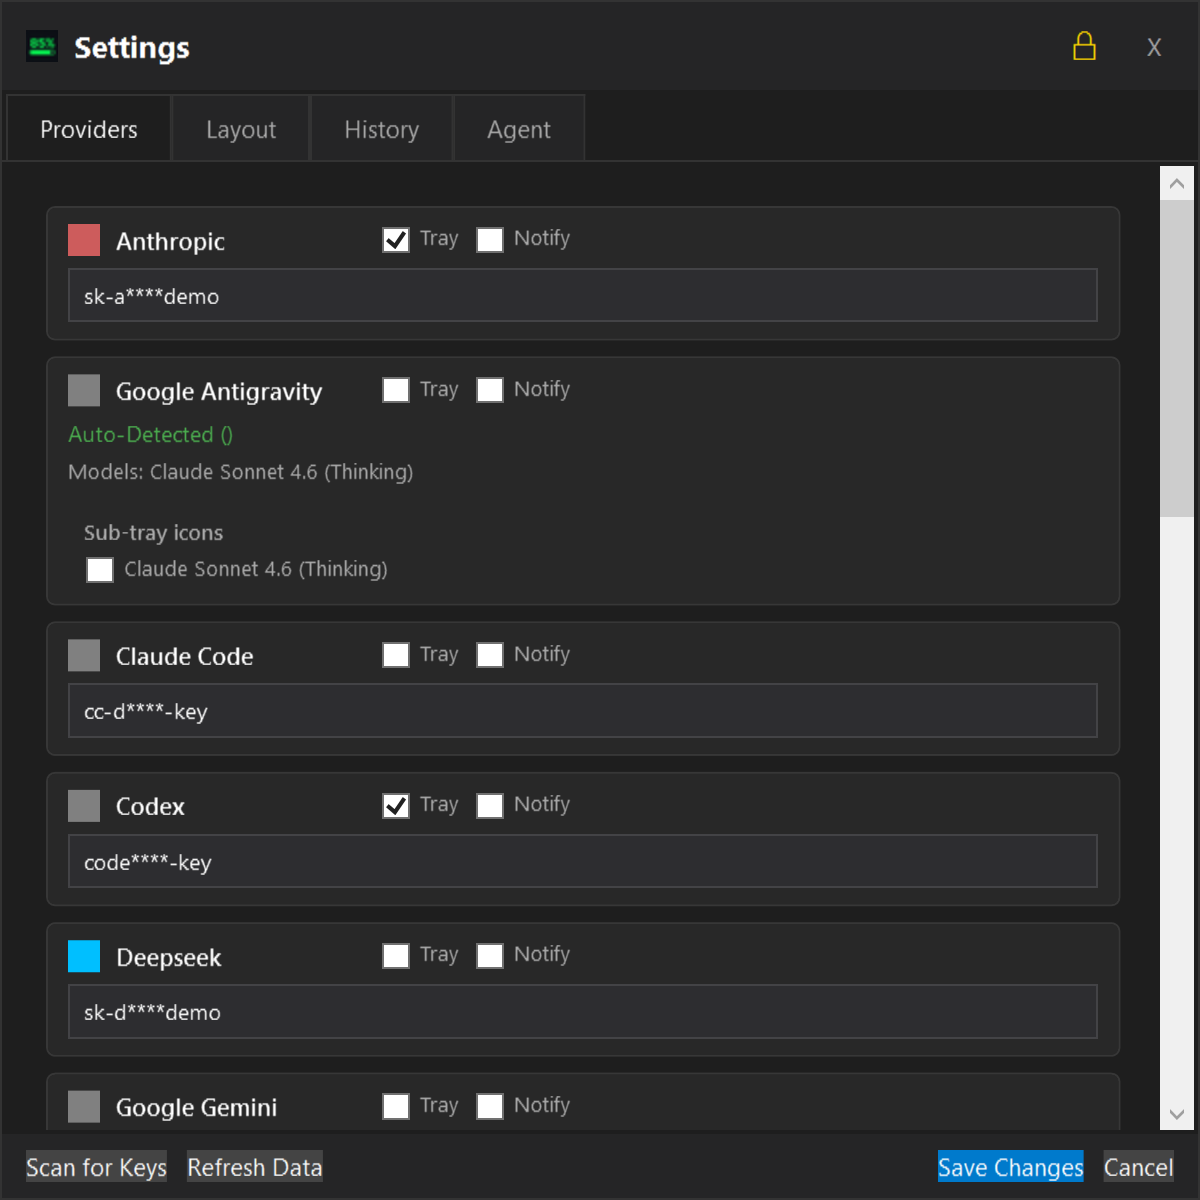
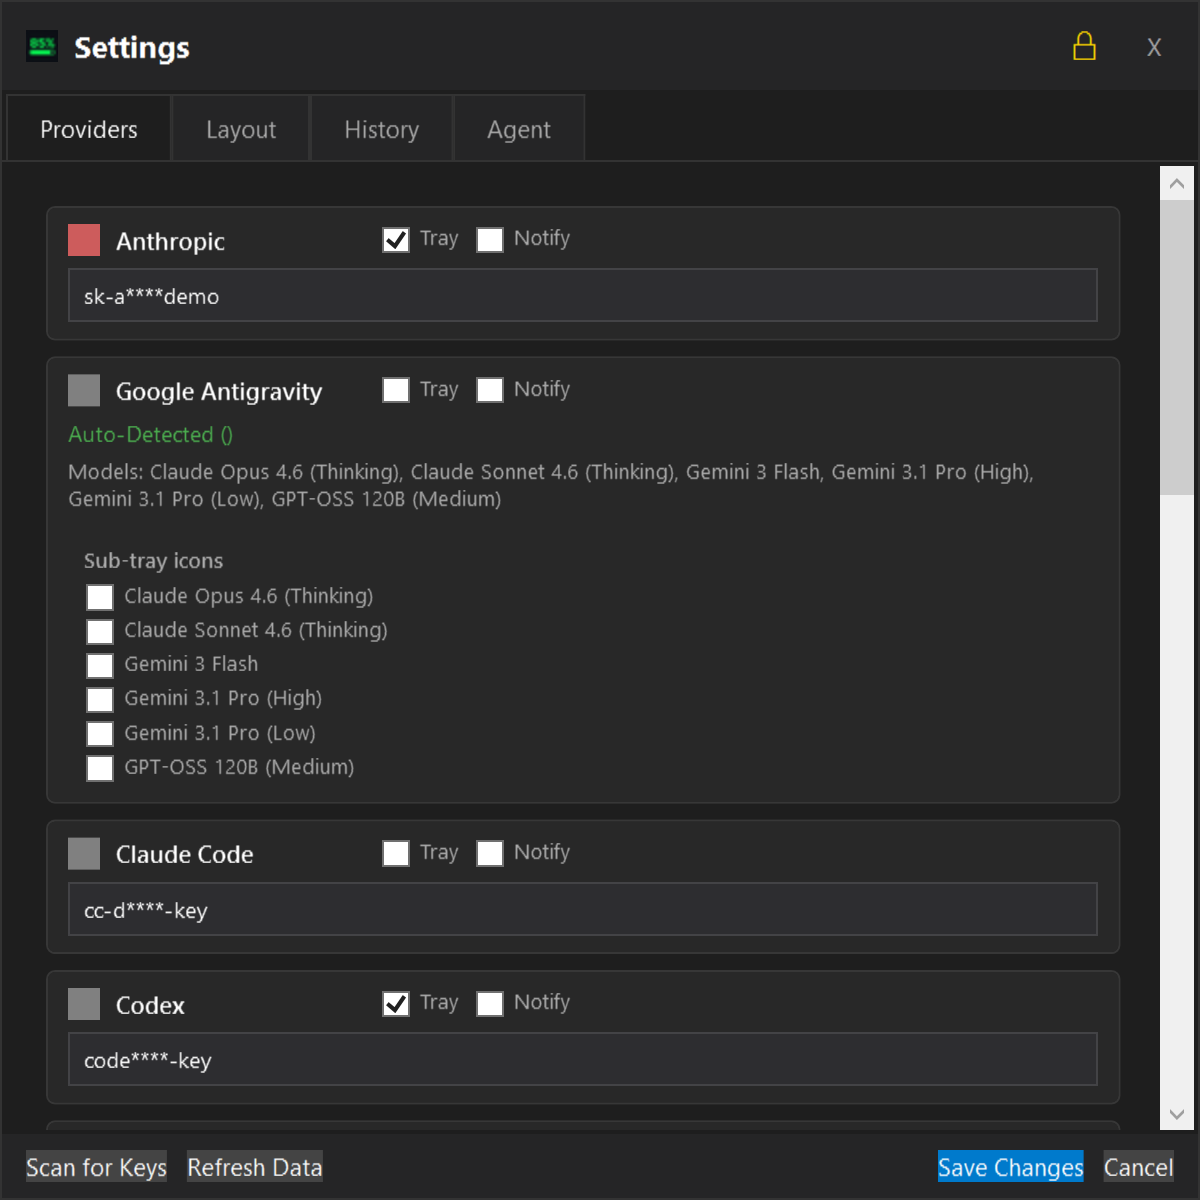
test: align antigravity fixtures with live snapshot models

diff --git a/AIConsumptionTracker.Tests/Infrastructure/Providers/AntigravityProviderTests.cs b/AIConsumptionTracker.Tests/Infrastructure/Providers/AntigravityProviderTests.cs
@@ -137,25 +137,42 @@ public class AntigravityProviderTests
         Assert.Equal("antigravity", summary.ProviderId);
         Assert.True(summary.IsQuotaBased);
         Assert.Equal(PlanType.Coding, summary.PlanType);
-        Assert.Equal(25.0, summary.RequestsPercentage);
+        Assert.Equal(60.0, summary.RequestsPercentage);
         Assert.NotNull(summary.Details);
 
         var details = summary.Details!;
-        var claude = Assert.Single(details, d => d.Name == "claude-3.7-sonnet");
-        var gpt = Assert.Single(details, d => d.Name == "gpt-4.1");
-        var mystery = Assert.Single(details, d => d.Name == "mystery-model");
+        Assert.Equal(6, details.Count);
 
-        Assert.Equal("Anthropic", claude.GroupName);
-        Assert.Equal("claude-3.7-sonnet", claude.ModelName);
-        Assert.Equal("80%", claude.Used);
+        var opus = Assert.Single(details, d => d.Name == "Claude Opus 4.6 (Thinking)");
+        var sonnet = Assert.Single(details, d => d.Name == "Claude Sonnet 4.6 (Thinking)");
+        var geminiFlash = Assert.Single(details, d => d.Name == "Gemini 3 Flash");
+        var geminiHigh = Assert.Single(details, d => d.Name == "Gemini 3.1 Pro (High)");
+        var geminiLow = Assert.Single(details, d => d.Name == "Gemini 3.1 Pro (Low)");
+        var gptOss = Assert.Single(details, d => d.Name == "GPT-OSS 120B (Medium)");
 
-        Assert.Equal("OpenAI", gpt.GroupName);
-        Assert.Equal("gpt-4.1", gpt.ModelName);
-        Assert.Equal("25%", gpt.Used);
+        Assert.Equal("Recommended Group 1", opus.GroupName);
+        Assert.Equal("Claude Opus 4.6 (Thinking)", opus.ModelName);
+        Assert.Equal("60%", opus.Used);
 
-        Assert.Equal("Experimental", mystery.GroupName);
-        Assert.Equal("mystery-model", mystery.ModelName);
-        Assert.Equal("50%", mystery.Used);
+        Assert.Equal("Recommended Group 1", sonnet.GroupName);
+        Assert.Equal("Claude Sonnet 4.6 (Thinking)", sonnet.ModelName);
+        Assert.Equal("60%", sonnet.Used);
+
+        Assert.Equal("Recommended Group 1", geminiFlash.GroupName);
+        Assert.Equal("Gemini 3 Flash", geminiFlash.ModelName);
+        Assert.Equal("100%", geminiFlash.Used);
+
+        Assert.Equal("Recommended Group 1", geminiHigh.GroupName);
+        Assert.Equal("Gemini 3.1 Pro (High)", geminiHigh.ModelName);
+        Assert.Equal("100%", geminiHigh.Used);
+
+        Assert.Equal("Recommended Group 1", geminiLow.GroupName);
+        Assert.Equal("Gemini 3.1 Pro (Low)", geminiLow.ModelName);
+        Assert.Equal("100%", geminiLow.Used);
+
+        Assert.Equal("Recommended Group 1", gptOss.GroupName);
+        Assert.Equal("GPT-OSS 120B (Medium)", gptOss.ModelName);
+        Assert.Equal("60%", gptOss.Used);
 
         Assert.DoesNotContain(details, d => d.GroupName == "Ungrouped Models");
     }

diff --git a/AIConsumptionTracker.UI.Slim/MainWindow.xaml.cs b/AIConsumptionTracker.UI.Slim/MainWindow.xaml.cs
@@ -408,10 +408,50 @@ public partial class MainWindow : Window
                     {
                         new()
                         {
+                            Name = "Claude Opus 4.6 (Thinking)",
+                            ModelName = "Claude Opus 4.6 (Thinking)",
+                            GroupName = "Recommended Group 1",
+                            Used = "60%",
+                            Description = "60% remaining"
+                        },
+                        new()
+                        {
                             Name = "Claude Sonnet 4.6 (Thinking)",
                             ModelName = "Claude Sonnet 4.6 (Thinking)",
-                            GroupName = "Tier 1",
-                            Used = "40%",
+                            GroupName = "Recommended Group 1",
+                            Used = "60%",
+                            Description = "60% remaining"
+                        },
+                        new()
+                        {
+                            Name = "Gemini 3 Flash",
+                            ModelName = "Gemini 3 Flash",
+                            GroupName = "Recommended Group 1",
+                            Used = "100%",
+                            Description = "100% remaining"
+                        },
+                        new()
+                        {
+                            Name = "Gemini 3.1 Pro (High)",
+                            ModelName = "Gemini 3.1 Pro (High)",
+                            GroupName = "Recommended Group 1",
+                            Used = "100%",
+                            Description = "100% remaining"
+                        },
+                        new()
+                        {
+                            Name = "Gemini 3.1 Pro (Low)",
+                            ModelName = "Gemini 3.1 Pro (Low)",
+                            GroupName = "Recommended Group 1",
+                            Used = "100%",
+                            Description = "100% remaining"
+                        },
+                        new()
+                        {
+                            Name = "GPT-OSS 120B (Medium)",
+                            ModelName = "GPT-OSS 120B (Medium)",
+                            GroupName = "Recommended Group 1",
+                            Used = "60%",
                             Description = "60% remaining"
                         }
                     }

diff --git a/AIConsumptionTracker.UI.Slim/SettingsWindow.xaml.cs b/AIConsumptionTracker.UI.Slim/SettingsWindow.xaml.cs
@@ -211,10 +211,50 @@ public partial class SettingsWindow : Window
                 {
                     new()
                     {
+                        Name = "Claude Opus 4.6 (Thinking)",
+                        ModelName = "Claude Opus 4.6 (Thinking)",
+                        GroupName = "Recommended Group 1",
+                        Used = "60%",
+                        Description = "60% remaining"
+                    },
+                    new()
+                    {
                         Name = "Claude Sonnet 4.6 (Thinking)",
                         ModelName = "Claude Sonnet 4.6 (Thinking)",
-                        GroupName = "Tier 1",
-                        Used = "40%",
+                        GroupName = "Recommended Group 1",
+                        Used = "60%",
+                        Description = "60% remaining"
+                    },
+                    new()
+                    {
+                        Name = "Gemini 3 Flash",
+                        ModelName = "Gemini 3 Flash",
+                        GroupName = "Recommended Group 1",
+                        Used = "100%",
+                        Description = "100% remaining"
+                    },
+                    new()
+                    {
+                        Name = "Gemini 3.1 Pro (High)",
+                        ModelName = "Gemini 3.1 Pro (High)",
+                        GroupName = "Recommended Group 1",
+                        Used = "100%",
+                        Description = "100% remaining"
+                    },
+                    new()
+                    {
+                        Name = "Gemini 3.1 Pro (Low)",
+                        ModelName = "Gemini 3.1 Pro (Low)",
+                        GroupName = "Recommended Group 1",
+                        Used = "100%",
+                        Description = "100% remaining"
+                    },
+                    new()
+                    {
+                        Name = "GPT-OSS 120B (Medium)",
+                        ModelName = "GPT-OSS 120B (Medium)",
+                        GroupName = "Recommended Group 1",
+                        Used = "60%",
                         Description = "60% remaining"
                     }
                 }

diff --git a/docs/test_fixture_sync.md b/docs/test_fixture_sync.md
@@ -28,13 +28,19 @@ This document defines how provider test fixtures and deterministic screenshot fi
 ## Current Antigravity Fixture Mapping
 
 - Screenshot fixtures (`MainWindow` + `SettingsWindow`) use:
-  - `Claude Sonnet 4.6 (Thinking)` with remaining/used values matching deterministic quota semantics.
+  - `Claude Opus 4.6 (Thinking)`
+  - `Claude Sonnet 4.6 (Thinking)`
+  - `Gemini 3 Flash`
+  - `Gemini 3.1 Pro (High)`
+  - `Gemini 3.1 Pro (Low)`
+  - `GPT-OSS 120B (Medium)`
 - Snapshot parser fixture (`antigravity_user_status.snapshot.json`) currently contains:
-  - `claude-3.7-sonnet`
-  - `gpt-4.1`
-  - `mystery-model`
-
-Both are retained intentionally: one for deterministic screenshot UX, one for parser coverage of grouped model labels.
+  - `Claude Opus 4.6 (Thinking)`
+  - `Claude Sonnet 4.6 (Thinking)`
+  - `Gemini 3 Flash`
+  - `Gemini 3.1 Pro (High)`
+  - `Gemini 3.1 Pro (Low)`
+  - `GPT-OSS 120B (Medium)`
 
 ## Update Workflow
 
